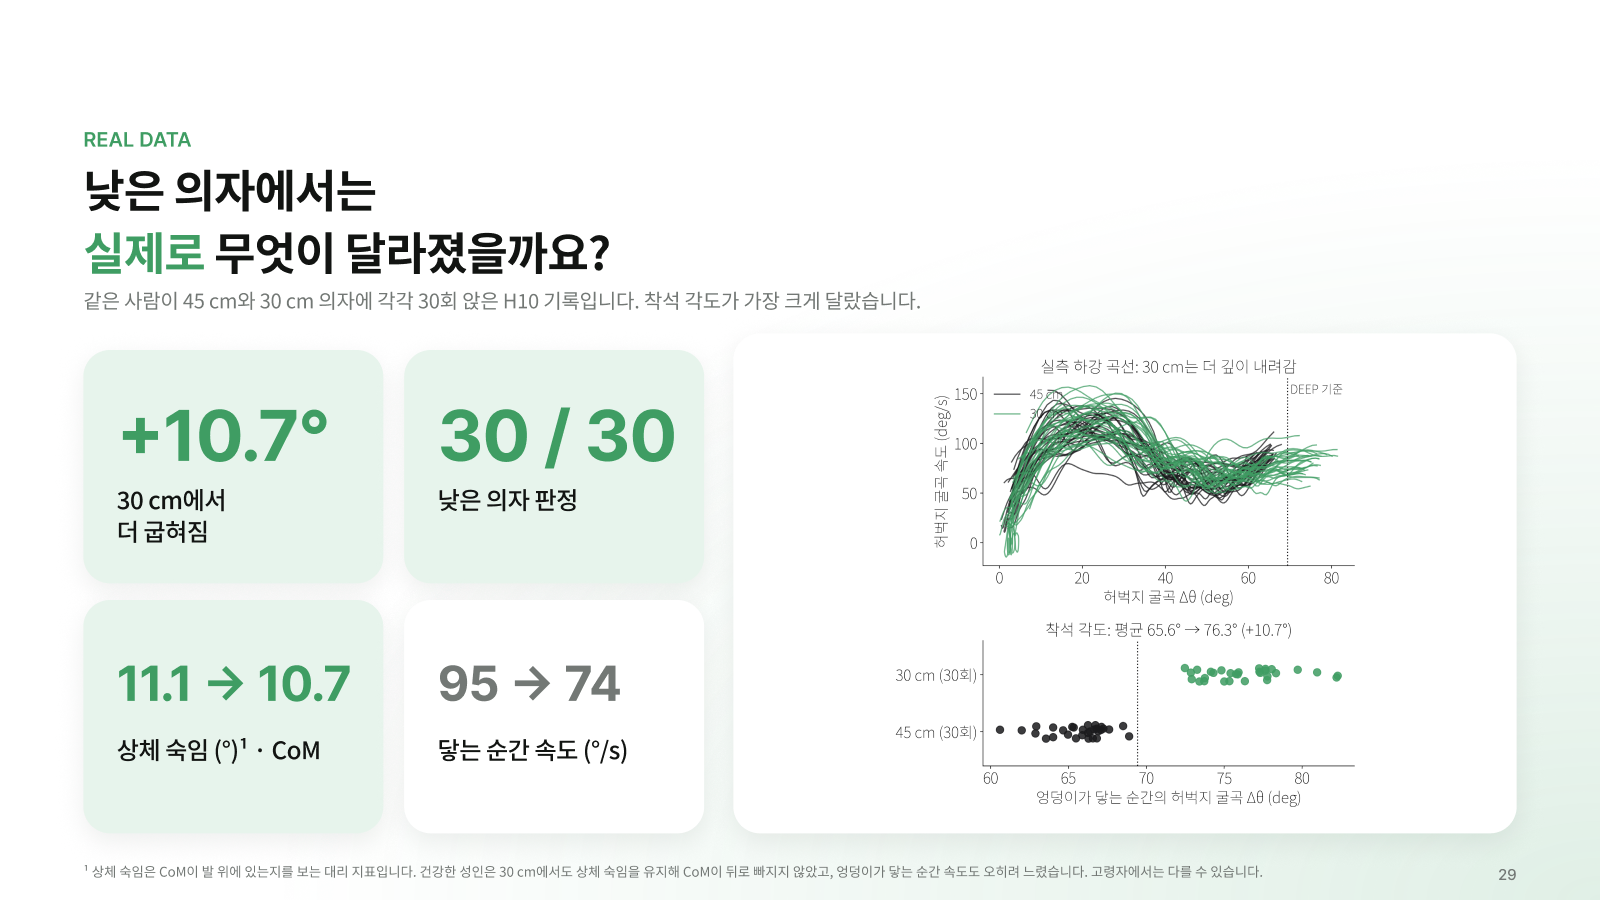
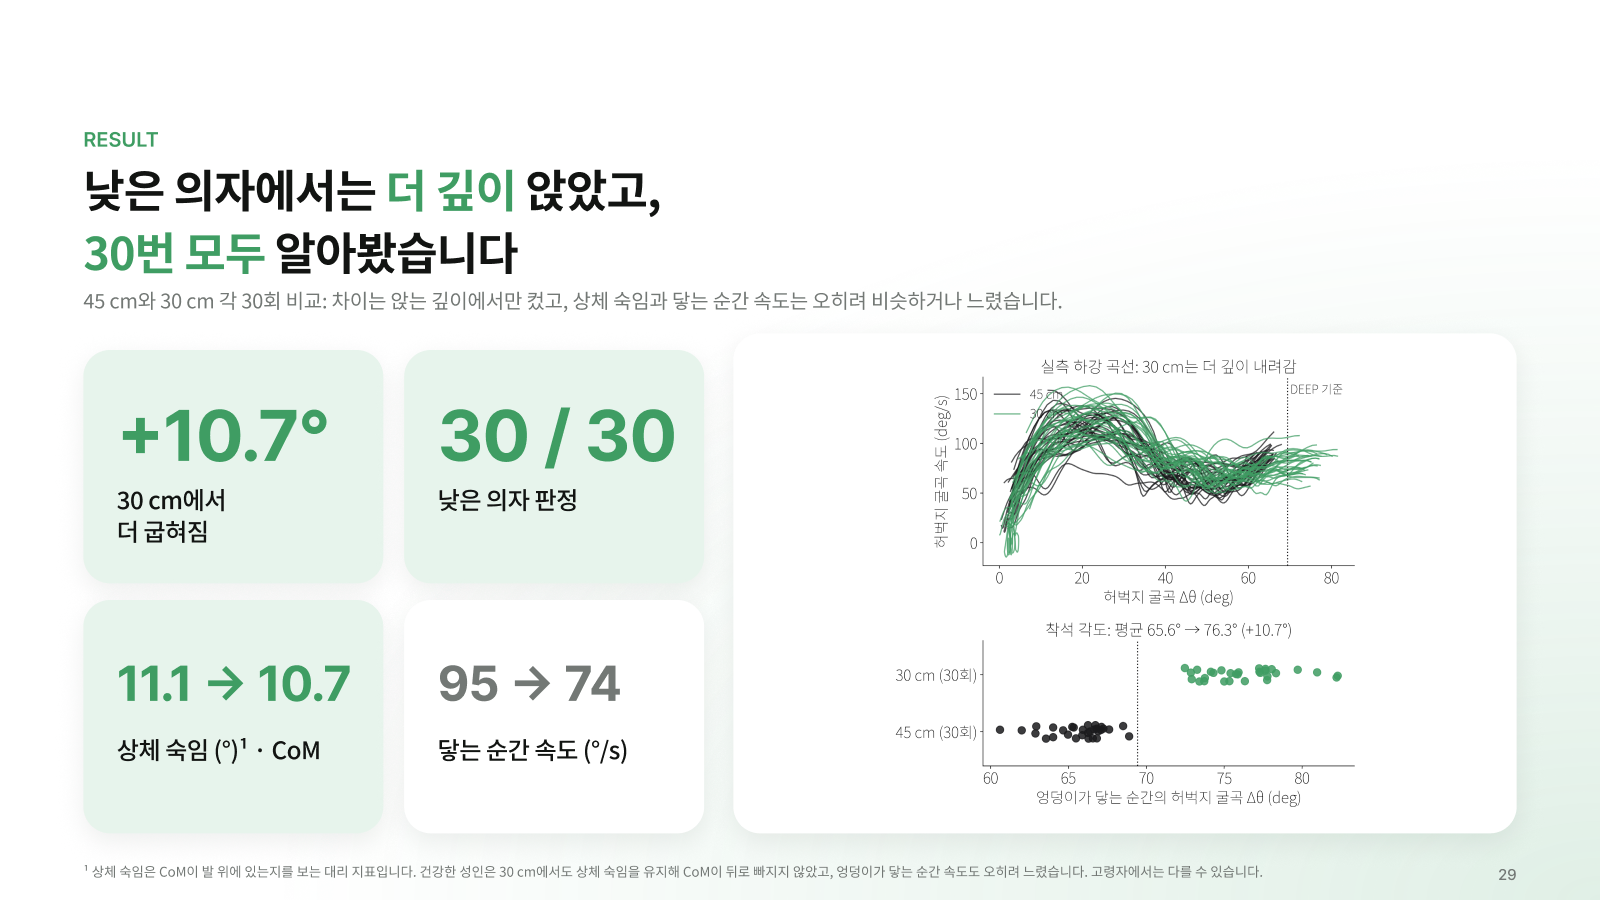
Slides: results slide headline states the finding

Changed region(s): [[0.0312, 0.1867, 0.6562, 0.3422], [0.0625, 0.1244, 0.125, 0.1867]]

diff --git a/presentation/발표_흐름.md b/presentation/발표_흐름.md
@@ -37,7 +37,7 @@ Figma Slides: https://www.figma.com/slides/4tZDoTD6FXxpx83Z0kraKR
 | 26 | FORMULA | 수식 풀어 보기 | |
 | 27 | 간지 PART 05 | 결과 | 실측 데이터로 검증 · 낮은 의자에서 달라진 점 · H10 보조 ON 실측과 결론 |
 | 28 | VALIDATION | 실측 데이터로 검증 | 정상 착석 → 기본 제어만(29/30 추가 제동 없음), 더 내려가면 → 보조 키우는 단계(30 cm 30/30, 45 cm 오판정 0), 2배 빠른 가상 착석 17/30 |
-| 29 | REAL DATA | 낮은 의자에서는 실제로 무엇이 달라졌을까요? | +10.7°, 30/30 |
+| 29 | RESULT | 낮은 의자에서는 더 깊이 앉았고, 30번 모두 알아봤습니다 | +10.7°, 30/30 |
 | 30 | H10 TEST · SCENE | H10을 입고 낮은 자리에 앉기 | 팀원 촬영 영상 스틸 6장: 낮은 벤치 · 계단, 서 있음 → 내려가는 중 → 앉음 (공개 저장소 이미지는 생략) |
 | 31 | H10 TEST · SIDE VIEW | 옆에서 본 낮은 벤치 착석 | 고정 카메라 옆 촬영 스틸 4장(0.0 · 0.3 · 0.6 · 1.2초) (공개 저장소 이미지는 생략) |
 | 32 | H10 TEST | H10 보조 ON 1차 실측 | |
